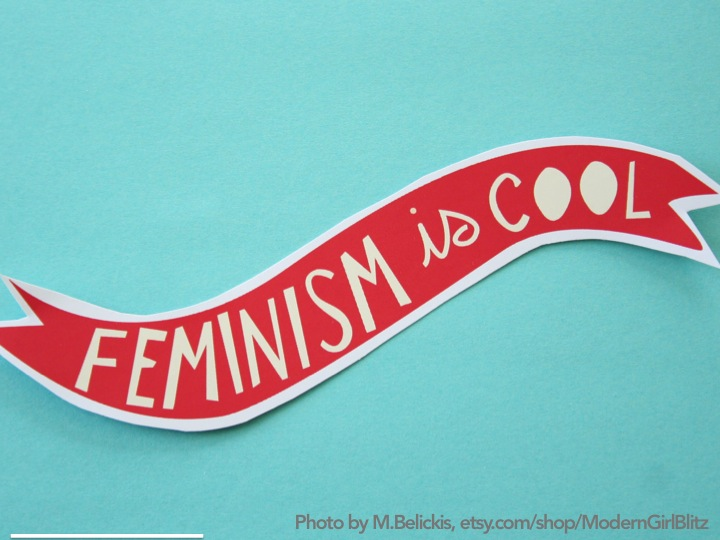
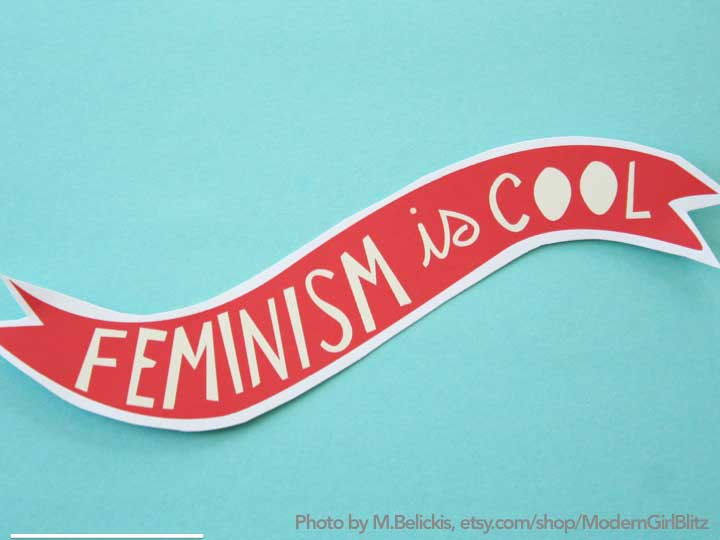
Reduced image sizes

diff --git a/_posts/2012-03-15-style-your-site-for-mobile-with-drupal-5-and-css.md b/_posts/2012-03-15-style-your-site-for-mobile-with-drupal-5-and-css.md
@@ -16,7 +16,7 @@ The following article documents how I went about creating a mobile version of th
 
 At the Art Institute of Chicago, our museum website is run as two separate pieces. Collections—information on ~50,000 of the 150,000 artworks in our galleries and archives—runs on Drupal 5 and was initially developed by [Palantir in 2008](http://www.palantir.net/experience/art-institute-chicago). Everything else runs on Serena Collage, a now-out-of-business CMS, and is currently being redesigned in Drupal 7 (*phew!*). I work mostly with our Drupal 5 Collections website.
 
-![](/images/iphone-screen.png)
+![](/images/iphone-screen.jpg)
 
 More of our users are visiting our site on mobile devices. 7.75% of our visitors in February were on mobile devices, up from 3.25% the previous year. These aren’t staggering numbers today, but are inline with [global trends](http://www.cisco.com/en/US/solutions/collateral/ns341/ns525/ns537/ns705/ns827/white_paper_c11-520862.html). As mobile trends grow, we need to make the experience of these visitors more accessible. Viewing our current site on a mobile device is a little bewildering, with teeny-tiny text and links that you have to zoom in so far to use that they’re essentially unusable. 
 
@@ -26,7 +26,7 @@ Our regular site is being redesigned with mobile in mind. With no immediate plan
 
 ### Mobile design
 
-![](/images/side-by-side-web.png)
+![](/images/side-by-side-web.jpg)
 
 The layout of the mobile site is simpler. We display all the pages in a single column to allow each feature to be as large as possible and provide a simpler flow of information. We silo the content to just our artwork objects. Links to other sections of our website and other related content are removed for now, and will be rethought about post-launch. With the small amount of screen real estate, we put content first. This means navigational items and related links go to the bottom of the page. This is not ideal, and there are definitely [sexier ways to address navigation](http://bradfrostweb.com/blog/web/responsive-nav-patterns), but in the interest of a short turnaround, we’ll address that post-launch with a thoughtful approach to our users’ needs.
 

diff --git a/_projects/2010-11-30-life-was-so-much-easier-when-i-was-a-line-drawing.md b/_projects/2010-11-30-life-was-so-much-easier-when-i-was-a-line-drawing.md
@@ -1,5 +1,5 @@
 ---
-image: /images/life-was-so-much-easier.png
+image: /images/life-was-so-much-easier.jpg
 alt: A play off of an instructional chart. On the left are three line drawing illustrations showing how to walk up a single step. On the right are a series of snapshot photos showing myself as someone who's struggling to walk up a single step, eventually falling over to the ground in frustration.
 title: Life was so much easier when I was a line drawing
 dates: Fall 2010

diff --git a/_projects/2014-08-08-cdry-logo.md b/_projects/2014-08-08-cdry-logo.md
@@ -1,5 +1,5 @@
 ---
-image: /images/cdyr-logo.png
+image: /images/cdyr-logo.jpg
 alt: An digitally illustrated logo for Chicago Desi Youth Rising. It's a burgundy circle with rusty orange swirls circling the perimeter. Inside the circle are four silhouetted South Asian figures. Below the figure says "CDRY, Chicago Desi Youth Rising."
 title: Chicago Desi Youth Rising logo
 dates: Summer 2014

diff --git a/_projects/2015-06-20-linked-visions.md b/_projects/2015-06-20-linked-visions.md
@@ -1,5 +1,5 @@
 ---
-image: /images/linked-visions.png
+image: /images/linked-visions.jpg
 alt: A screen shot of linkedvisions.artic.edu
 title: Whistler and Roussel, Linked Visions
 dates: June 2015
